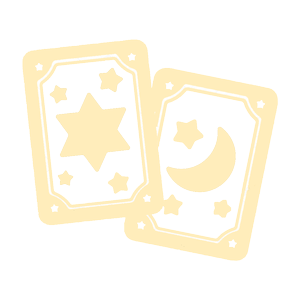
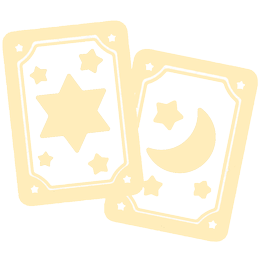
elements-49

diff --git a/wp-content/themes/mobile/index.php b/wp-content/themes/mobile/index.php
@@ -111,7 +111,7 @@
 					      <span class="protocols_item_title">Лечебное Tarot</span>
 					      <div class="protocols_item_img">
 					      	<!-- <i class="far fa-moon"></i> -->
-					      	<img src="<?php echo get_template_directory_uri(); ?>/img/icon_master.png" alt="" class="main_menu_icon">
+					      	<img src="<?php echo get_template_directory_uri(); ?>/img/icon_tarot.png" alt="" class="main_menu_icon">
 					      </div>
 					    </div>
 							<div class="col mode-item mode-item_manual text_center">
